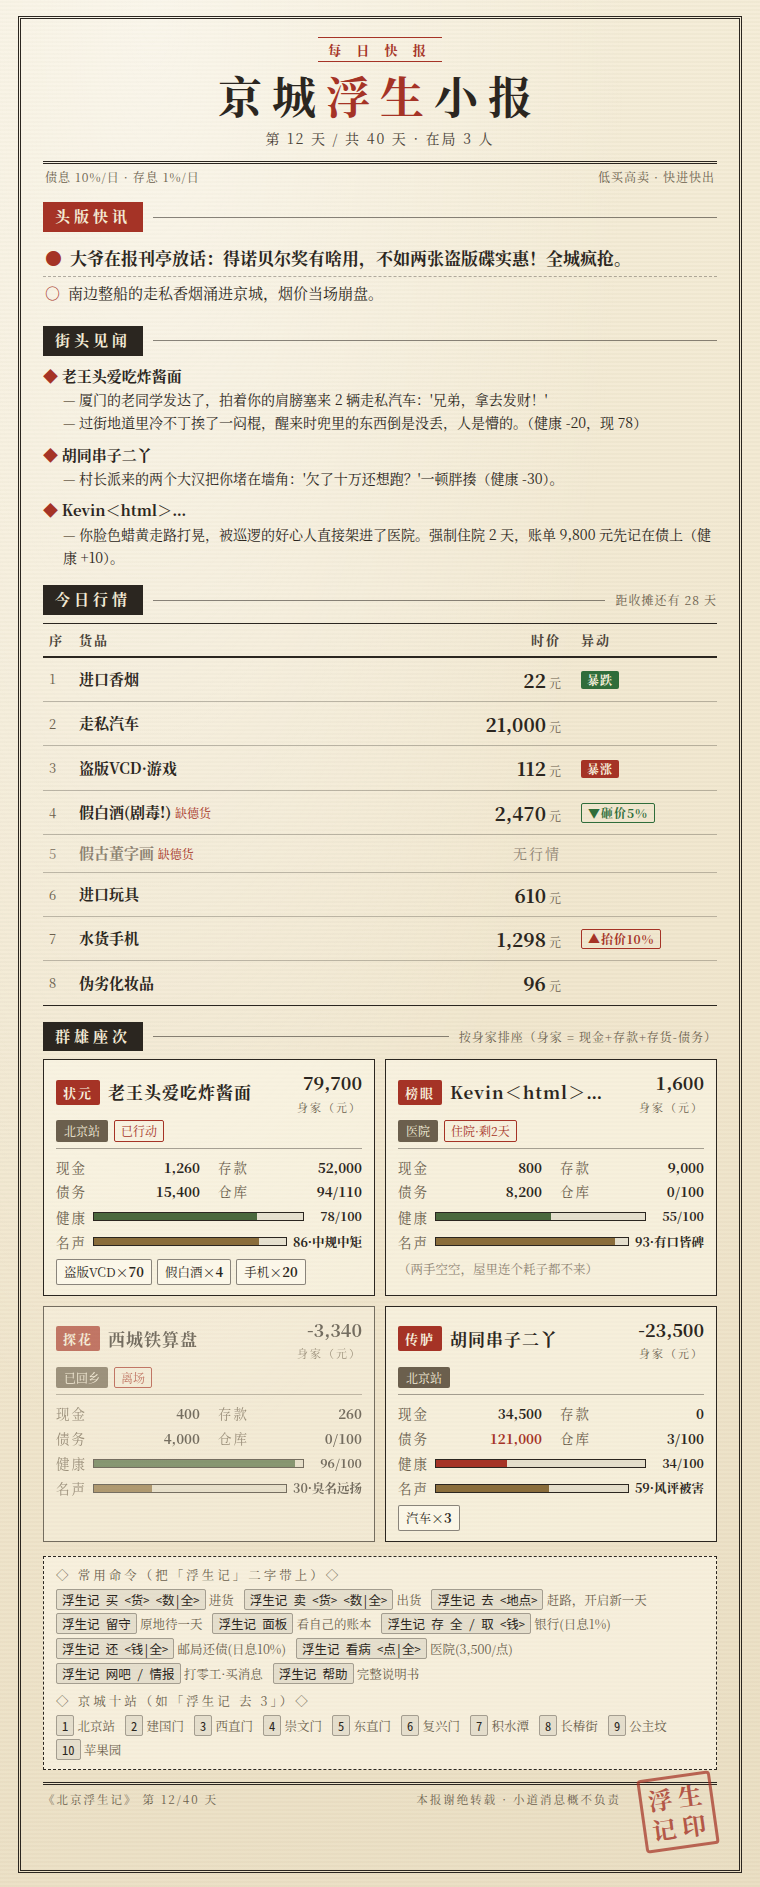
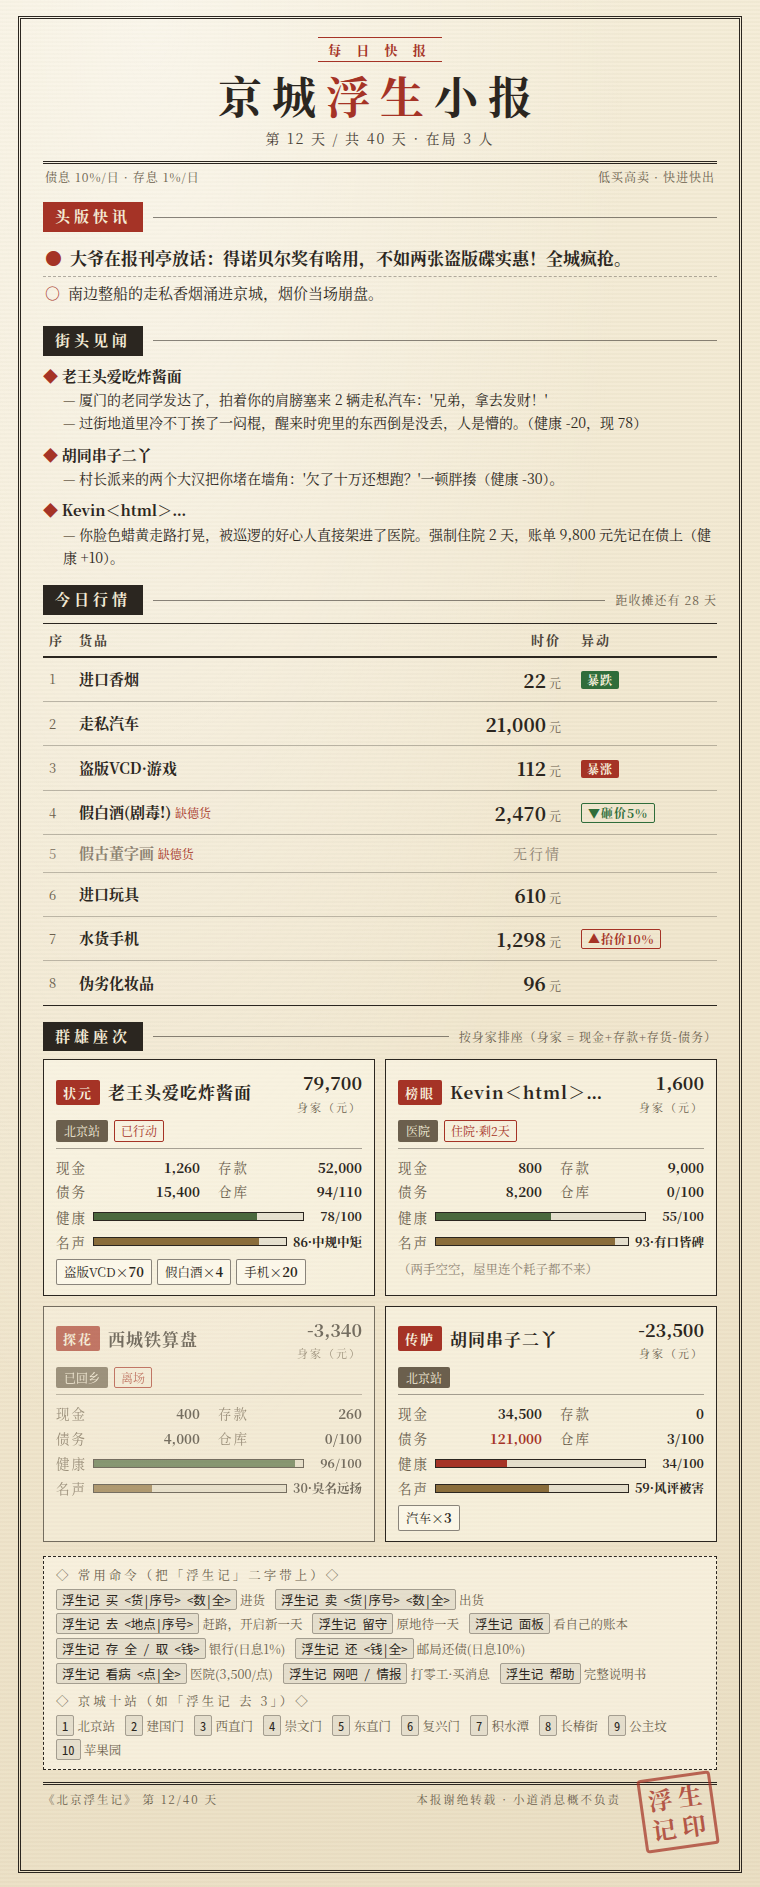
v1.1.1: 还原度修复——白捡事件补原版无行情跳过、黑客默认关、序号买卖上提示
对照原版 SelectionDlg.cpp 逐条复核每日事件后发现并修复：
- DoRandomStuff 对全部商业事件（含 4 条白捡）先查 m_DrugPrice==0：
  商品当日无行情则该条不发生。_roll_gifts 此前漏了这一步。
  200,000 人日实测：修复后白捡 4.43%/日，与原版理论 4.44% 吻合
  （全上市 6.63% × 在市概率 0.670）。
- 黑客事件默认值改为关闭：原版 OnNewGame 每局强制 m_bHackActs=FALSE，
  需在游戏设置里手动打开；WebUI 开关与之对齐（enable_hacker 默认 false）。
- 买/卖本就支持行情表序号（如「卖 7 全」），但版面提示只写了 <货>；
  日报/帮助命令片、买卖报错提示、README 全部补上 <货|序号>。
- README 补记原版「我要逛京城/我要进地铁」为纯改地名文字的视觉彩蛋，
  文字指令版未保留。
- 新增测试：白捡遇无行情跳过（含对照组）、黑客默认关/显式开；
  旧白捡测试显式摆回 1 号货行情（安静随机源恒退市 1 号货，
  此前恰是靠缺失的检查才通过）。145 项测试全绿，60 局模拟通过。

Changed region(s): [[0.1211, 0.8299, 0.8474, 0.8914]]

diff --git a/tests/test_engine.py b/tests/test_engine.py
@@ -312,6 +312,7 @@ class TestDailyPipeline:
     def test_gift_event(self):
         room, _ = make_room(1)
         p = room.players["u0"]
+        room.prices[1] = 100  # 安静随机源会把 1 号货退市；送礼要求当日有行情
         engine._roll_gifts(room, ScriptRng([0]), p, ev := [])
         assert p.inventory[1].qty == 2 and p.inventory[1].avg_cost == 0
         assert len(ev) == 1
@@ -342,10 +343,24 @@ class TestDailyPipeline:
     def test_gift_dilutes_avg_cost(self):
         room, _ = make_room(1)
         p = room.players["u0"]
+        room.prices[1] = 100  # 同上：先把 1 号货摆回行情
         p.inventory[1] = Holding(qty=2, avg_cost=20000)
         engine._roll_gifts(room, ScriptRng([0]), p, [])
         assert p.inventory[1].qty == 4
         assert p.inventory[1].avg_cost == 20000 * 2 // 4
+
+    def test_gift_skipped_when_good_off_market(self):
+        """原版：商品当日无行情，白捡事件不发生（判定命中也作废）。"""
+        room, _ = make_room(1)
+        p = room.players["u0"]
+        room.prices[const.GIFT_EVENTS[0].good] = 0
+        engine._roll_gifts(room, ScriptRng([0]), p, ev := [])
+        assert ev == [] and not p.inventory
+        # 同一脚本、有行情 -> 正常送货（对照组）
+        room.prices[const.GIFT_EVENTS[0].good] = 100
+        engine._roll_gifts(room, ScriptRng([0]), p, ev2 := [])
+        assert p.inventory[const.GIFT_EVENTS[0].good].qty == const.GIFT_EVENTS[0].qty
+        assert len(ev2) == 1
 
     def test_health_event_first_hit_breaks(self):
         room, _ = make_room(1)
@@ -409,6 +424,21 @@ class TestDailyPipeline:
         p.bank = 200000
         engine._roll_hacker(ScriptRng([0, 8, 3]), p, ev2 := [])  # 3 % 3 == 0 -> 加
         assert p.bank == 220000
+
+    def test_hacker_off_by_default_like_original(self):
+        """原版每局默认不开黑客（OnNewGame 置 FALSE），未配置时不该触发。"""
+        script = [1] * 23 + [25, 0]  # 4 白捡+12 健康+7 破财全错过，第 24 次命中黑客判定
+        room, _ = make_room(1)
+        p = room.players["u0"]
+        p.bank = 50000
+        engine._process_player_day(room, ScriptRng(list(script)), p)
+        assert p.bank == 50500  # 仅日息 1%，黑客未触发
+
+        room2, _ = make_room(1, settings={"enable_hacker": True})
+        p2 = room2.players["u0"]
+        p2.bank = 50000
+        engine._process_player_day(room2, ScriptRng(list(script)), p2)
+        assert p2.bank == 50500 + 50500  # 结息后再被黑客塞满 bank//(1+0)
 
     def test_thug_when_debt_high(self):
         room, r = make_room(1)

diff --git a/main.py b/main.py
@@ -340,7 +340,7 @@ class BeijingFushengji(Star):
                         n_days = int(days.strip())
                     settings = {
                         "max_players": int(self._cfg("max_players", const.MAX_PLAYERS)),
-                        "enable_hacker": bool(self._cfg("enable_hacker", True)),
+                        "enable_hacker": bool(self._cfg("enable_hacker", False)),
                         "market_impact": bool(self._cfg("market_impact", True)),
                         "intel_price": int(self._cfg("intel_price", const.INTEL_DEFAULT_PRICE)),
                         "intel_accuracy": int(
@@ -418,13 +418,14 @@ class BeijingFushengji(Star):
 
     @fusheng.command("买", alias={"购买", "进货", "buy"})
     async def cmd_buy(self, event: AstrMessageEvent, good: str = "", qty: str = ""):
-        """进货：浮生记 买 <货> <数|全>"""
+        """进货：浮生记 买 <货|序号> <数|全>"""
         uid, _ = self._sender(event)
 
         def act(room: Room, now: float) -> engine.ActionResult:
             if not qty.strip():
                 raise GameError(
-                    "买多少件？", "如「浮生记 买 手机 10」，或「浮生记 买 手机 全」按现金上限梭哈。"
+                    "买多少件？",
+                    "如「浮生记 买 手机 10」，货可用行情表序号（「浮生记 买 7 全」按现金上限梭哈）。",
                 )
             return engine.buy(room, uid, parse.parse_good(good), parse.parse_qty(qty))
 
@@ -433,12 +434,15 @@ class BeijingFushengji(Star):
 
     @fusheng.command("卖", alias={"出售", "出货", "sell"})
     async def cmd_sell(self, event: AstrMessageEvent, good: str = "", qty: str = ""):
-        """出货：浮生记 卖 <货> <数|全>"""
+        """出货：浮生记 卖 <货|序号> <数|全>"""
         uid, _ = self._sender(event)
 
         def act(room: Room, now: float) -> engine.ActionResult:
             if not qty.strip():
-                raise GameError("卖多少件？", "如「浮生记 卖 手机 10」，或「浮生记 卖 手机 全」清仓。")
+                raise GameError(
+                    "卖多少件？",
+                    "如「浮生记 卖 手机 10」，货可用行情表序号（「浮生记 卖 7 全」清仓）。",
+                )
             return engine.sell(room, uid, parse.parse_good(good), parse.parse_qty(qty))
 
         async for r in self._dispatch(event, act):

diff --git a/render/contexts.py b/render/contexts.py
@@ -52,9 +52,9 @@ def clean_name(raw: str) -> str:
 # ---------------------------------------------------------------------------
 
 HINTS_PLAY = [
-    {"cmd": "浮生记 买 <货> <数|全>", "desc": "进货"},
-    {"cmd": "浮生记 卖 <货> <数|全>", "desc": "出货"},
-    {"cmd": "浮生记 去 <地点>", "desc": "赶路，开启新一天"},
+    {"cmd": "浮生记 买 <货|序号> <数|全>", "desc": "进货"},
+    {"cmd": "浮生记 卖 <货|序号> <数|全>", "desc": "出货"},
+    {"cmd": "浮生记 去 <地点|序号>", "desc": "赶路，开启新一天"},
     {"cmd": "浮生记 留守", "desc": "原地待一天"},
     {"cmd": "浮生记 面板", "desc": "看自己的账本"},
     {"cmd": "浮生记 存 全 / 取 <钱>", "desc": "银行(日息1%)"},
@@ -397,8 +397,8 @@ def help_context() -> dict[str, Any]:
             "cmds": [
                 {"cmd": "浮生记 去 <地点|序号>", "desc": "赶路(锁定当天)"},
                 {"cmd": "浮生记 留守", "desc": "原地过一天"},
-                {"cmd": "浮生记 买 <货> <数|全>", "desc": "进货"},
-                {"cmd": "浮生记 卖 <货> <数|全>", "desc": "出货"},
+                {"cmd": "浮生记 买 <货|序号> <数|全>", "desc": "进货"},
+                {"cmd": "浮生记 卖 <货|序号> <数|全>", "desc": "出货"},
                 {"cmd": "浮生记 面板", "desc": "自己的账本与行情"},
                 {"cmd": "浮生记 排行", "desc": "本局当前座次"},
             ],

diff --git a/core/engine.py b/core/engine.py
@@ -586,7 +586,7 @@ def _process_player_day(room: Room, rng: random.Random, p: Player) -> list[str]:
         events.append(const.DEATH_TEXT)
         return events
     _roll_money_loss(rng, p, events)
-    if room.setting("enable_hacker", True):
+    if room.setting("enable_hacker", False):  # 原版默认关，需在设置里打开
         _roll_hacker(rng, p, events)
     p.cash = max(0, p.cash)
     if p.debt > const.THUG_DEBT_LINE:
@@ -597,10 +597,12 @@ def _process_player_day(room: Room, rng: random.Random, p: Player) -> list[str]:
 
 
 def _roll_gifts(room: Room, rng: random.Random, p: Player, events: list[str]) -> None:
-    """白捡商品事件：逐条独立判定；房满则中断剩余判定（原版行为）。"""
+    """白捡商品事件：逐条独立判定；货当日无行情则该条不发生、房满则中断剩余判定（均为原版行为）。"""
     for ev in const.GIFT_EVENTS:
         if rng.randrange(const.BUSINESS_POOL) % ev.freq != 0:
             continue
+        if room.prices[ev.good] <= 0:
+            continue  # 原版对全部商业事件先查 m_DrugPrice==0：没行情的货连白捡都轮不上
         cap_left = p.capacity_left()
         if cap_left <= 0:
             if ev.add_debt:  # 村长的货：房满货不给、债照加

diff --git a/README.md b/README.md
@@ -59,7 +59,7 @@ git clone https://github.com/AlanBacker/astrbot_plugin_beijing_fushengji
 | `浮生记 开始` | 房主发车 |
 | `浮生记 去 <地点\|序号>` | 赶路，锁定当天行动 |
 | `浮生记 留守` | 原地过一天 |
-| `浮生记 买/卖 <货> <数\|全>` | 交易（货品可用序号、简称、别名） |
+| `浮生记 买/卖 <货\|序号> <数\|全>` | 交易。货品可用行情表序号（1~8）、简称、别名，如「卖 7 全」 |
 | `浮生记 存/取 <钱\|全\|半>` | 银行，存款日息 1% |
 | `浮生记 还 <钱\|全>` | 邮局还高利贷（债务日息 10%，过 10 万有打手上门） |
 | `浮生记 看病 <点\|全>` | 医院 3,500 元/点补健康 |
@@ -90,6 +90,7 @@ git clone https://github.com/AlanBacker/astrbot_plugin_beijing_fushengji
 - 原版的违禁书刊类商品替换为「假古董字画」，价位区间与卖出的名声代价保持一致，其余 7 种货品原样保留。
 - 原版每天弹窗式的随机事件文案全部原创重写（判定概率、数值与顺序不变）。
 - 强制住院从"直接扣天数"改为"住院期间跳过行动"，对多人局公平；账单照记在债上。
+- 原版「我要逛京城/我要进地铁」按钮是纯视觉彩蛋：把十个地名在地铁站名与地面街道名之间互换，行情、事件全不变。文字指令版没有按钮，未保留。
 - 排行称号、结局评语等文字为原创，向原版致意。
 
 ## 配置项
@@ -103,7 +104,7 @@ git clone https://github.com/AlanBacker/astrbot_plugin_beijing_fushengji
 | `idle_hours` | 24 | 闲置自动跳天时限（小时），0 关闭 |
 | `force_text_mode` | false | 强制纯文本（不出图） |
 | `market_impact` | true | 买卖冲击行情（多人博弈核心，可关掉回归原版手感） |
-| `enable_hacker` | true | 黑客改存款彩蛋 |
+| `enable_hacker` | false | 黑客改存款彩蛋（原版每局默认关闭、需手动开启，此处保持一致） |
 | `intel_price` / `intel_accuracy` | 500 / 75 | 小道消息价格与准确率 |
 | `ai_comment` | false | 结算后 AI 说书人点评 |
 | `ai_provider_id` | 空 | 说书人指定供应商 ID（留空 = 跟随会话默认；失败 3 次自动回退） |
